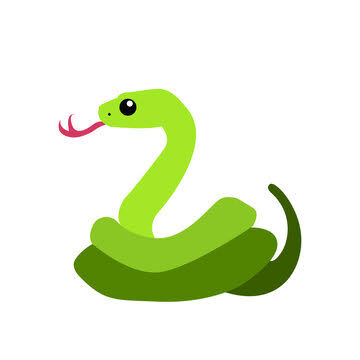
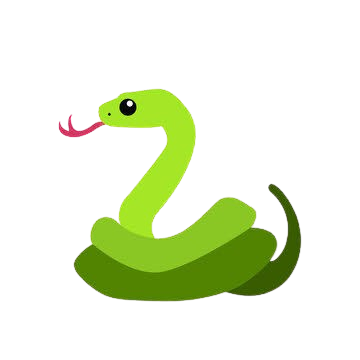
finished module 6 lesson 4 project  1

diff --git a/Module 6 Pygame/Lesson 4/project.py b/Module 6 Pygame/Lesson 4/project.py
@@ -1,5 +1,6 @@
 import pygame
 import random
+import os
 
 SCREEN_WIDTH, SCREEN_HEIGHT = 500, 400
 MOVEMENT_SPEED = 5
@@ -15,7 +16,10 @@ all_sprites = pygame.sprite.Group()
 class Sprite(pygame.sprite.Sprite):
     def __init__(self, image_file):
         super().__init__()
-        self.image = pygame.image.load(image_file).convert_alpha()
+
+        image_path = os.path.join(os.path.dirname(__file__), image_file)
+
+        self.image = pygame.image.load(image_path).convert_alpha()
         self.image = pygame.transform.scale(self.image, (50, 50))
         self.rect = self.image.get_rect()
 
@@ -28,13 +32,11 @@ class Sprite(pygame.sprite.Sprite):
         )
 
 
-# Create the snake
 s1 = Sprite("snake.png")
 s1.rect.x = random.randint(0, SCREEN_WIDTH - s1.rect.width)
 s1.rect.y = random.randint(0, SCREEN_HEIGHT - s1.rect.height)
 all_sprites.add(s1)
 
-# Create the mouse
 s2 = Sprite("mouse.png")
 s2.rect.x = random.randint(0, SCREEN_WIDTH - s2.rect.width)
 s2.rect.y = random.randint(0, SCREEN_HEIGHT - s2.rect.height)
@@ -47,6 +49,7 @@ clock = pygame.time.Clock()
 while running:
 
     for event in pygame.event.get():
+
         if event.type == pygame.QUIT or (
             event.type == pygame.KEYDOWN and event.key == pygame.K_x
         ):
@@ -64,7 +67,6 @@ while running:
 
     s1.move(x_change, y_change)
 
-    # If the snake catches the mouse, move the mouse
     if s1.rect.colliderect(s2.rect):
         s2.rect.x = random.randint(0, SCREEN_WIDTH - s2.rect.width)
         s2.rect.y = random.randint(0, SCREEN_HEIGHT - s2.rect.height)
